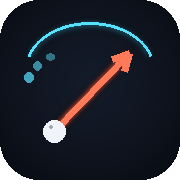
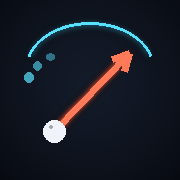
Add files via upload

diff --git a/cart.html b/cart.html
@@ -6,7 +6,7 @@
 <link rel="manifest" href="manifest.json">
 <link rel="icon" href="icons/favicon-32.png?v=2" sizes="32x32" type="image/png">
 <link rel="icon" href="icons/favicon-16.png?v=2" sizes="16x16" type="image/png">
-<link rel="apple-touch-icon" href="icons/apple-touch-icon.png?v=2">
+<link rel="apple-touch-icon" href="icons/apple-touch-icon.png?v=3">
 <meta name="theme-color" content="#0a0e15">
 <meta name="mobile-web-app-capable" content="yes">
 <meta name="apple-mobile-web-app-capable" content="yes">

diff --git a/freefall.html b/freefall.html
@@ -6,7 +6,7 @@
 <link rel="manifest" href="manifest.json">
 <link rel="icon" href="icons/favicon-32.png?v=2" sizes="32x32" type="image/png">
 <link rel="icon" href="icons/favicon-16.png?v=2" sizes="16x16" type="image/png">
-<link rel="apple-touch-icon" href="icons/apple-touch-icon.png?v=2">
+<link rel="apple-touch-icon" href="icons/apple-touch-icon.png?v=3">
 <meta name="theme-color" content="#0a0e15">
 <meta name="mobile-web-app-capable" content="yes">
 <meta name="apple-mobile-web-app-capable" content="yes">

diff --git a/index.html b/index.html
@@ -6,7 +6,7 @@
 <link rel="manifest" href="manifest.json">
 <link rel="icon" href="icons/favicon-32.png?v=2" sizes="32x32" type="image/png">
 <link rel="icon" href="icons/favicon-16.png?v=2" sizes="16x16" type="image/png">
-<link rel="apple-touch-icon" href="icons/apple-touch-icon.png?v=2">
+<link rel="apple-touch-icon" href="icons/apple-touch-icon.png?v=3">
 <meta name="theme-color" content="#fafafa">
 <meta name="mobile-web-app-capable" content="yes">
 <meta name="apple-mobile-web-app-capable" content="yes">

diff --git a/pendulum.html b/pendulum.html
@@ -6,7 +6,7 @@
 <link rel="manifest" href="manifest.json">
 <link rel="icon" href="icons/favicon-32.png?v=2" sizes="32x32" type="image/png">
 <link rel="icon" href="icons/favicon-16.png?v=2" sizes="16x16" type="image/png">
-<link rel="apple-touch-icon" href="icons/apple-touch-icon.png?v=2">
+<link rel="apple-touch-icon" href="icons/apple-touch-icon.png?v=3">
 <meta name="theme-color" content="#0a0e15">
 <meta name="mobile-web-app-capable" content="yes">
 <meta name="apple-mobile-web-app-capable" content="yes">

diff --git a/pressure.html b/pressure.html
@@ -6,7 +6,7 @@
 <link rel="manifest" href="manifest.json">
 <link rel="icon" href="icons/favicon-32.png?v=2" sizes="32x32" type="image/png">
 <link rel="icon" href="icons/favicon-16.png?v=2" sizes="16x16" type="image/png">
-<link rel="apple-touch-icon" href="icons/apple-touch-icon.png?v=2">
+<link rel="apple-touch-icon" href="icons/apple-touch-icon.png?v=3">
 <meta name="theme-color" content="#0a0e15">
 <meta name="mobile-web-app-capable" content="yes">
 <meta name="apple-mobile-web-app-capable" content="yes">

diff --git a/projectile.html b/projectile.html
@@ -6,7 +6,7 @@
 <link rel="manifest" href="manifest.json">
 <link rel="icon" href="icons/favicon-32.png?v=2" sizes="32x32" type="image/png">
 <link rel="icon" href="icons/favicon-16.png?v=2" sizes="16x16" type="image/png">
-<link rel="apple-touch-icon" href="icons/apple-touch-icon.png?v=2">
+<link rel="apple-touch-icon" href="icons/apple-touch-icon.png?v=3">
 <meta name="theme-color" content="#0a0e15">
 <meta name="mobile-web-app-capable" content="yes">
 <meta name="apple-mobile-web-app-capable" content="yes">

diff --git a/pulley.html b/pulley.html
@@ -6,7 +6,7 @@
 <link rel="manifest" href="manifest.json">
 <link rel="icon" href="icons/favicon-32.png?v=2" sizes="32x32" type="image/png">
 <link rel="icon" href="icons/favicon-16.png?v=2" sizes="16x16" type="image/png">
-<link rel="apple-touch-icon" href="icons/apple-touch-icon.png?v=2">
+<link rel="apple-touch-icon" href="icons/apple-touch-icon.png?v=3">
 <meta name="theme-color" content="#0a0e15">
 <meta name="mobile-web-app-capable" content="yes">
 <meta name="apple-mobile-web-app-capable" content="yes">
